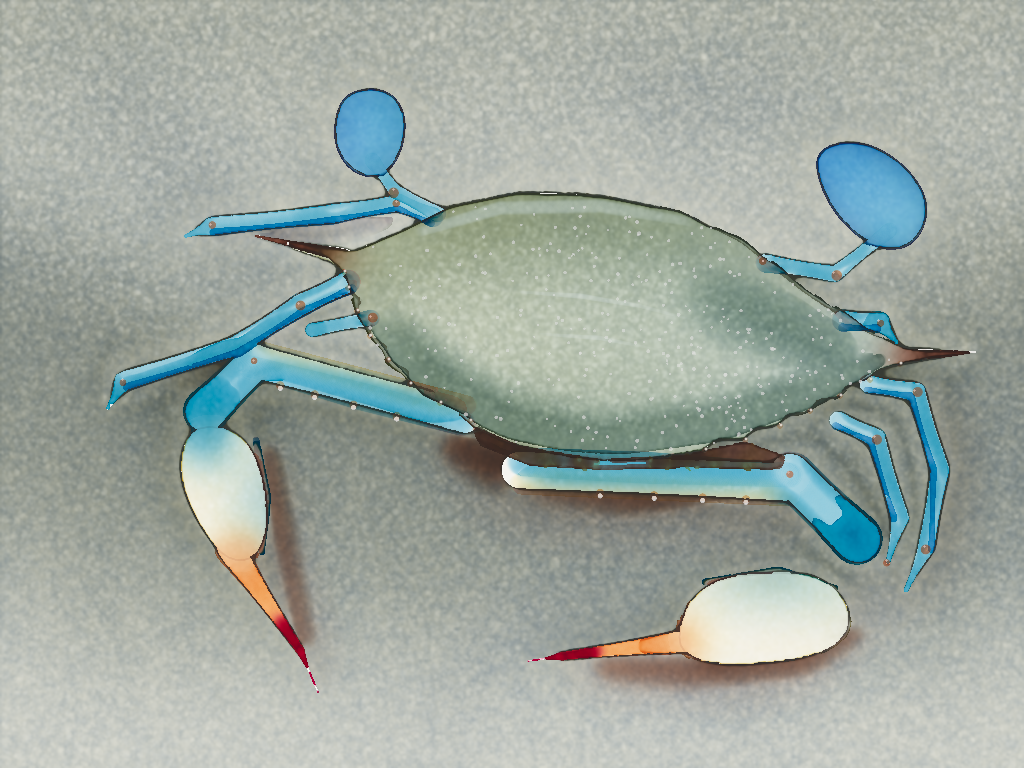
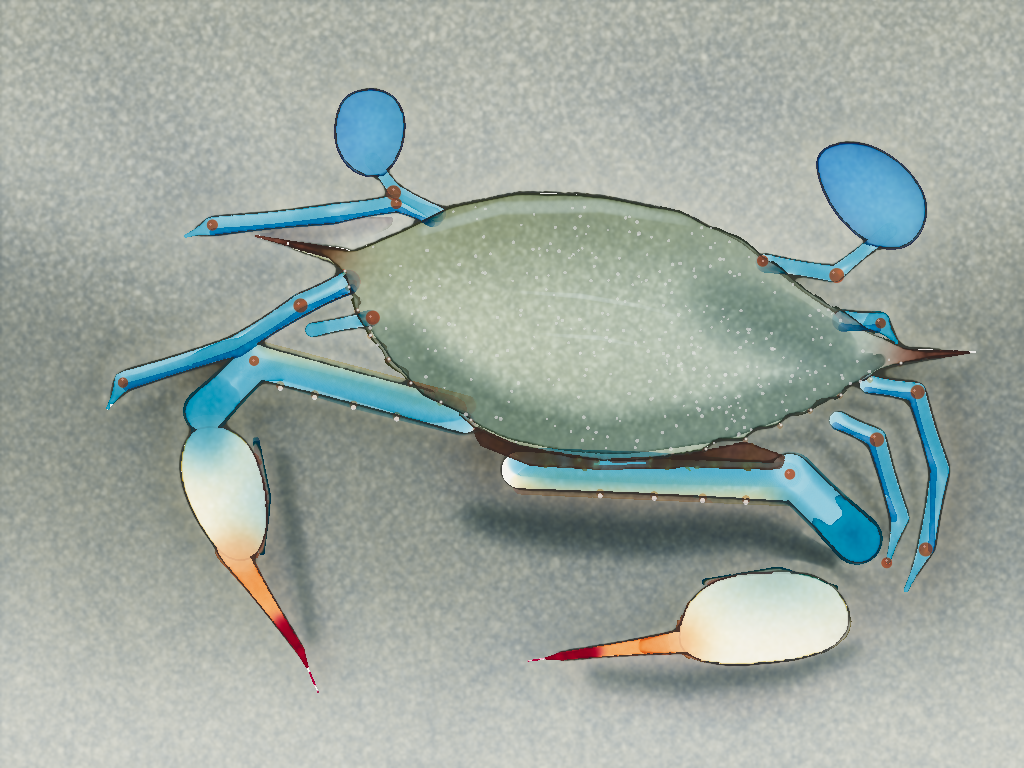
Blue crab on sand, pass 6: the shadow pool outside the mask (it had peeled off with it), visible joints

diff --git a/paintings/blue-crab-beach.js b/paintings/blue-crab-beach.js
@@ -168,11 +168,15 @@ window.__paintDone = (async () => {
   // the near-black pool right under her, at satin so it keeps its shape by the crab
   // (pass 3's soft shadows alone left her floating)
   await S.skipTo('satin', { points: [[600, 600]] });
-  h.setBrush([['Raw Umber', 1.2], ['Perylene Maroon', 0.7], ['Perylene Green', 0.8]]); V.brushPigment = 0.8; V.dipLoad = 0.35;
-  await shade([[450, 446, 0.4], [540, 478, 0.9], [640, 490, 1], [740, 482, 0.8], [800, 462, 0.4]], 24);
-  V.brushPigment = 0.6;
-  await shade([[600, 668, 0.3], [700, 672, 0.8], [800, 664, 0.7], [856, 636, 0.3]], 14);
-  await shade([[268, 450, 0.3], [282, 540, 0.7], [304, 640, 0.4]], 11);
+  // thick paint on a nearly dry brush (pass 4's 0.8 at Wetness 0.35 thinned out in the wet
+  // sand, and the perylene maroon gave it a rusty halo): a cool dark of the sand's own colours
+  h.setBrush([['Raw Umber', 1.4], ['French Ultramarine', 0.8], ['Perylene Green', 0.8]]); V.brushPigment = 1; V.dipLoad = 0.12;
+  // (pass 5 laid these on the masking fluid over the claw's arm and palms, and they peeled off
+  // with it: they go just outside the silhouette, overlapping the mask's edge)
+  await shade([[466, 512, 0.4], [560, 528, 0.9], [660, 536, 1], [760, 532, 0.8], [836, 560, 0.4]], 24);
+  V.brushPigment = 0.75;
+  await shade([[590, 676, 0.3], [690, 682, 0.8], [790, 676, 0.7], [856, 650, 0.3]], 14);
+  await shade([[280, 452, 0.3], [292, 540, 0.7], [312, 640, 0.4]], 11);
   await dry();
   await S.look('sand');
   log('peel the mask');
@@ -280,9 +284,9 @@ window.__paintDone = (async () => {
   S.tool('paint'); h.setBrushPreset('round'); V.dipLoad = 0.35;
   // knobs at the joints: small, bright orange-red, each a little different, a white catch-light
   // (pass 2: identical brown discs, like rivets)
-  h.setBrush([['Pyrrole Scarlet', 1.5], ['Azo Condensation Yellow', 0.5]]); V.brushPigment = 0.75; V.dipLoad = 0.3;
+  h.setBrush([['Pyrrole Scarlet', 1.5], ['Azo Condensation Yellow', 0.5]]); V.brushPigment = 1; V.dipLoad = 0.25;
   const knobs = [...[...legs, ...paddles].flatMap(L => L.o.map(k => L.j[k])), ...claws.map(c => c.carpus[0])];
-  for (const k of knobs) await dab([k[0] + (rnd() - 0.5) * 4, k[1] + (rnd() - 0.5) * 4], 4 + rnd() * 2.5, 3);
+  for (const k of knobs) await dab([k[0] + (rnd() - 0.5) * 4, k[1] + (rnd() - 0.5) * 4], 6 + rnd() * 3, 5);
   h.setBrush('White Gouache'); V.brushPigment = 0.5;
   for (const k of knobs) await dab([k[0] - 1.5, k[1] - 1.5], 1.3, 1);
   h.setBrush([['Pyrrole Scarlet', 1.5], ['Perylene Maroon', 0.5]]); V.brushPigment = 0.55;
